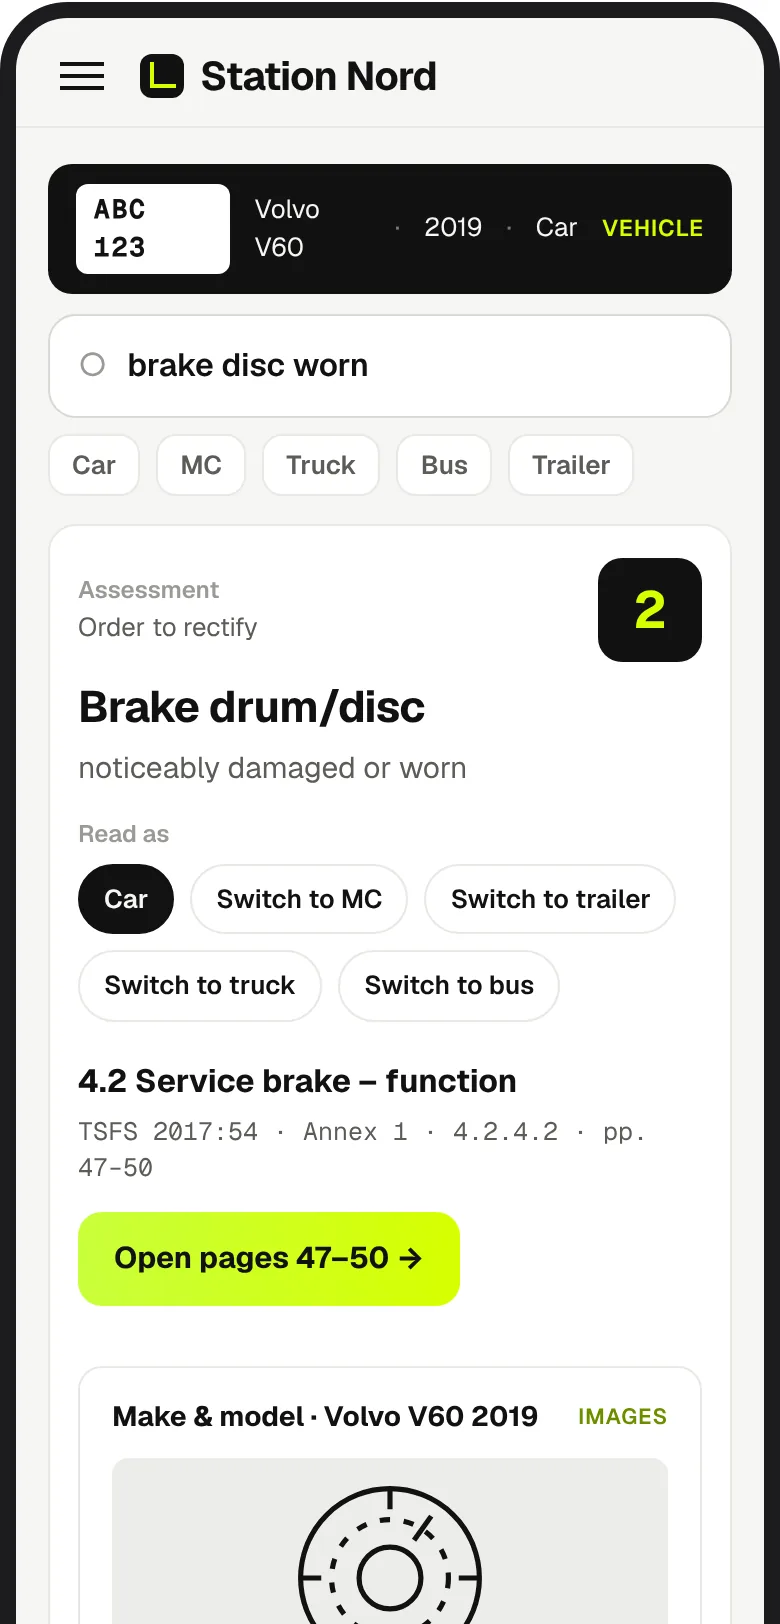
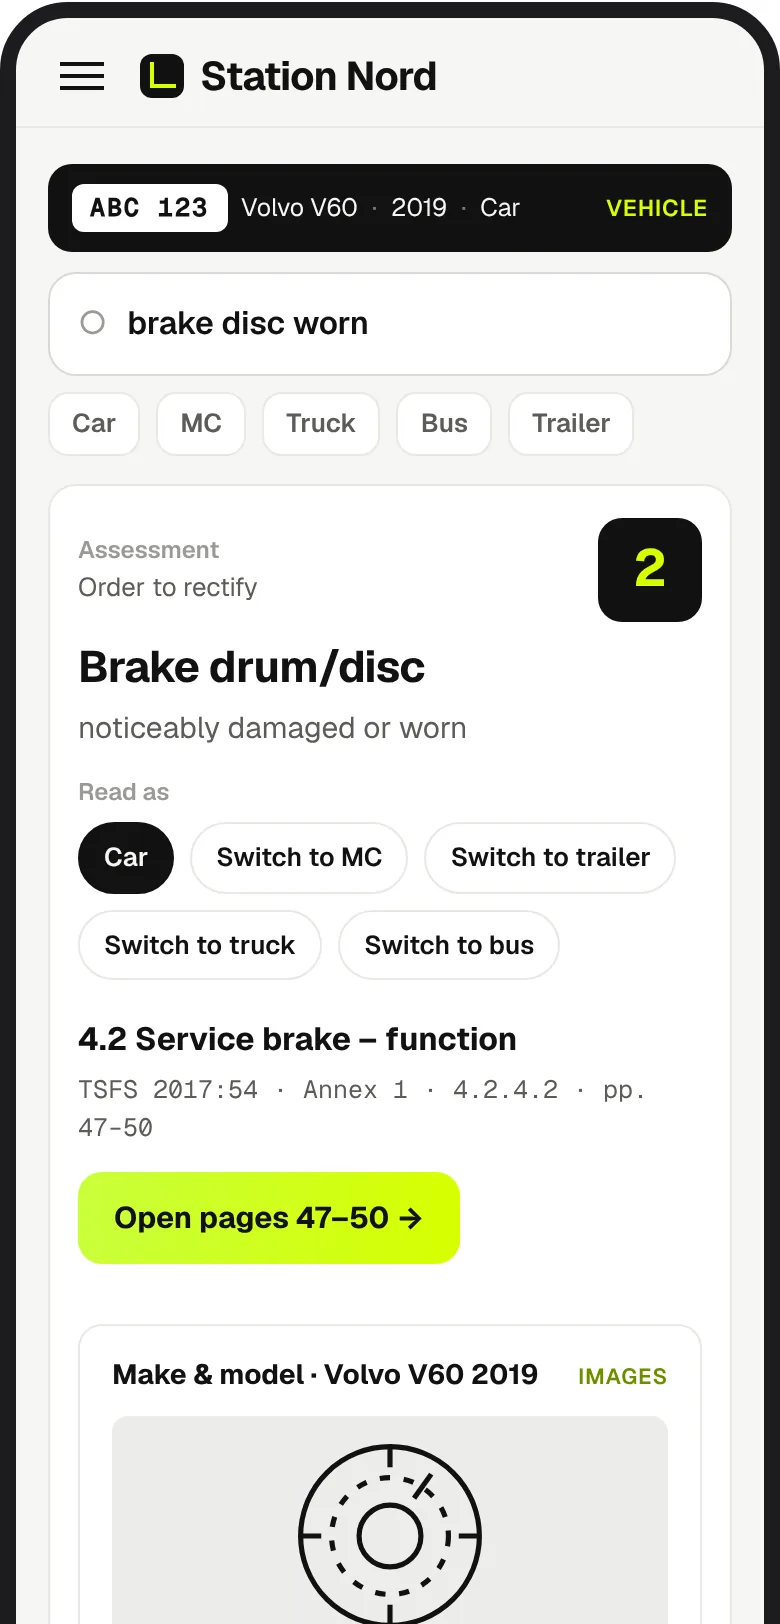
Engelska mobilbilden: fordonsraden på en rad. Knappen i nederkant helt dold tills den visas

diff --git a/index.html b/index.html
@@ -523,8 +523,8 @@ html{scrollbar-color:var(--line2) transparent}
 @media (max-width:380px){nav .links a.cta{display:none}}
 .mcta{display:none}
 @media (max-width:720px){
-  .mcta{display:block;position:fixed;left:12px;right:12px;bottom:calc(12px + env(safe-area-inset-bottom,0px));z-index:20;transform:translateY(160%);transition:transform .28s cubic-bezier(.2,.8,.2,1);pointer-events:none}
-  .mcta.on{transform:none;pointer-events:auto}
+  .mcta{display:block;position:fixed;left:12px;right:12px;bottom:calc(12px + env(safe-area-inset-bottom,0px));z-index:20;transform:translateY(12px);opacity:0;visibility:hidden;transition:transform .25s ease,opacity .25s ease,visibility 0s .25s;pointer-events:none}
+  .mcta.on{transform:none;opacity:1;visibility:visible;transition:transform .25s ease,opacity .25s ease;pointer-events:auto}
   .mcta a{display:flex;align-items:center;justify-content:center;min-height:52px;border-radius:16px;background:var(--lime);color:#111;font-weight:600;font-size:16px;text-decoration:none;box-shadow:0 14px 34px -12px rgba(0,0,0,.45),0 0 0 1px rgba(0,0,0,.06)}
   footer{padding-bottom:84px}
 }
@@ -569,7 +569,7 @@ html{scrollbar-color:var(--line2) transparent}
 
     <div class="frame" aria-label="Ellavate Handbook">
       <div class="fbar"><i></i><i></i><i></i><span class="url">handboken.station-nord.se</span></div>
-      <picture class="sv"><source media="(max-width:720px)" srcset="prod-mob.webp" width="780" height="1624"><img class="shot" fetchpriority="high" src="prod-desk.webp" width="1180" height="1350" alt="Ellavate Handbook: sökningen 'bromsskiva sliten' med bedömning, paragraf och tabell över grund för bedömning"></picture><picture class="en-t"><source media="(max-width:720px)" srcset="prod-mob-en.webp" width="780" height="1624"><img class="shot" loading="lazy" src="prod-desk-en.webp" width="1180" height="1350" alt="Ellavate Handbook: sökningen 'bromsskiva sliten' med bedömning, paragraf och tabell över grund för bedömning"></picture>
+      <picture class="sv"><source media="(max-width:720px)" srcset="prod-mob.webp" width="780" height="1624"><img class="shot" fetchpriority="high" src="prod-desk.webp" width="1180" height="1350" alt="Ellavate Handbook: sökningen 'bromsskiva sliten' med bedömning, paragraf och tabell över grund för bedömning"></picture><picture class="en-t"><source media="(max-width:720px)" srcset="prod-mob-en.webp?v=2" width="780" height="1624"><img class="shot" loading="lazy" src="prod-desk-en.webp" width="1180" height="1350" alt="Ellavate Handbook: sökningen 'bromsskiva sliten' med bedömning, paragraf och tabell över grund för bedömning"></picture>
     </div>
   </div>
 </header>
